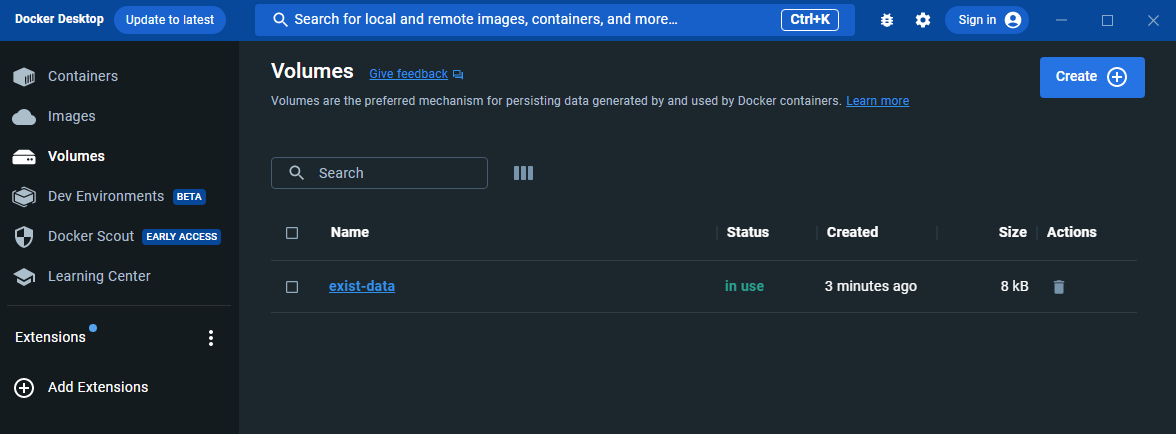
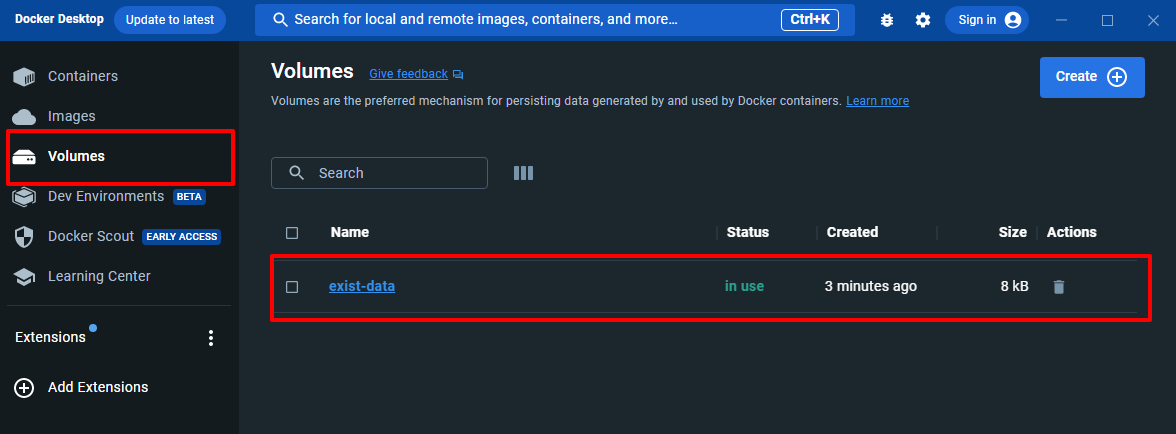
docker teipublisher

Changed region(s): [[0.2143, 0.5691, 0.9796, 0.7488], [0.0, 0.2995, 0.2143, 0.4493]]

diff --git a/_pages/docker-exist.md b/_pages/docker-exist.md
@@ -1,6 +1,6 @@
 ---
 layout: page
-title: Docker & Exist 
+title: Docker & Exist
 permalink: /docker-exist/
 ---
 
@@ -11,12 +11,12 @@ permalink: /docker-exist/
 
 ## ediarum
 
-* Wenn wir Docker Desktop installiert haben, öffnen wir im nächsten Schritt unser Terminal und installieren uns unsere lokale eXist-db mit dem Befehl: 
+* Wenn wir Docker Desktop installiert haben, öffnen wir im nächsten Schritt unser Terminal und installieren uns unsere lokale eXist-db mit dem Befehl:
     ```terminal
     docker pull existdb/existdb:5.2.0
     ```
-    → Auch wenn ediarum bis zur Version 5.3.1 kompatibel, haben wir uns für 5.2.0 entshcieden, um mit einer stabilen Version zu arbeiten. 
-* Nach dem Pull-Vorgang müssen wir nun die eXist-db noch unter Angabe des Ports (8080:8080 für unseren Localhost) ausführen, indem wir folgende Eingabe in unserem Terminal machen: 
+    → Auch wenn ediarum bis zur Version 5.3.1 kompatibel, haben wir uns für 5.2.0 entshcieden, um mit einer stabilen Version zu arbeiten.
+* Nach dem Pull-Vorgang müssen wir nun die eXist-db noch unter Angabe des Ports (8080:8080 für unseren Localhost) ausführen, indem wir folgende Eingabe in unserem Terminal machen:
     ```terminal
     docker run -it -d -p 8080:8080 -p 8443:8443 --name exist existdb/existdb:5.2.0
     ```
@@ -35,14 +35,14 @@ permalink: /docker-exist/
     ```terminal
     docker pull existdb/teipublisher:latest
     ```
-* Sobald der Download des Docker Images für den TEI Publisher abgeschlossen ist, starten wir den Container vom Terminal aus: 
+* Sobald der Download des Docker Images für den TEI Publisher abgeschlossen ist, starten wir den Container vom Terminal aus:
     ```terminal
     docker run -p 8081:8080 -p 8444:8443 --name teipublisher -v exist-data:/exist-data existdb/teipublisher:latest
     ```
-    → Mit der Spezifikation `-v exist-data:/exist-data` stellen wir sicher, dass Docker ein Volume erstellt, um die Datenbank zu speichern, sodass wir beim Löschen oder Aktualisieren des TEI-Publisher-Containers nicht auch unsere Daten verlieren. 
-* Wenn wir Docker Desktop öffnen, sollten wir jetzt einerseits unter <strong>Containers</strong> (zusätzlich zum bereits angelegten exist-Container) einen Container für den TEI Publisher vorfinden. 
-    {% include image.html url="../data/pipelines/pipeline_1/ediarum/img/docker-existdb.PNG" description="TODO" %}
-    Außerdem sollte unter <strong>Volumes</strong> auch das Volume "exist-data" vorhanden sein. 
-     
+    → Mit der Spezifikation `-v exist-data:/exist-data` stellen wir sicher, dass Docker ein Volume erstellt, um die Datenbank zu speichern, sodass wir beim Löschen oder Aktualisieren des TEI-Publisher-Containers nicht auch unsere Daten verlieren.
+* Wenn wir Docker Desktop öffnen, sollten wir jetzt einerseits unter <strong>Containers</strong> (zusätzlich zum bereits angelegten exist-Container) einen Container für den TEI Publisher vorfinden.
+    {% include image.html url="../data/pipelines/pipeline_1/teipublisher/img/docker-teipublisher-container.PNG" description="TEI-Publisher-Container in Docker Desktop" %}
+    Außerdem sollte unter <strong>Volumes</strong> auch das Volume "exist-data" vorhanden sein.
+    {% include image.html url="../data/pipelines/pipeline_1/teipublisher/img/docker-existdata-volume.PNG" description="TEI-Publisher-Container in Docker Desktop" %}
 
-    
+
